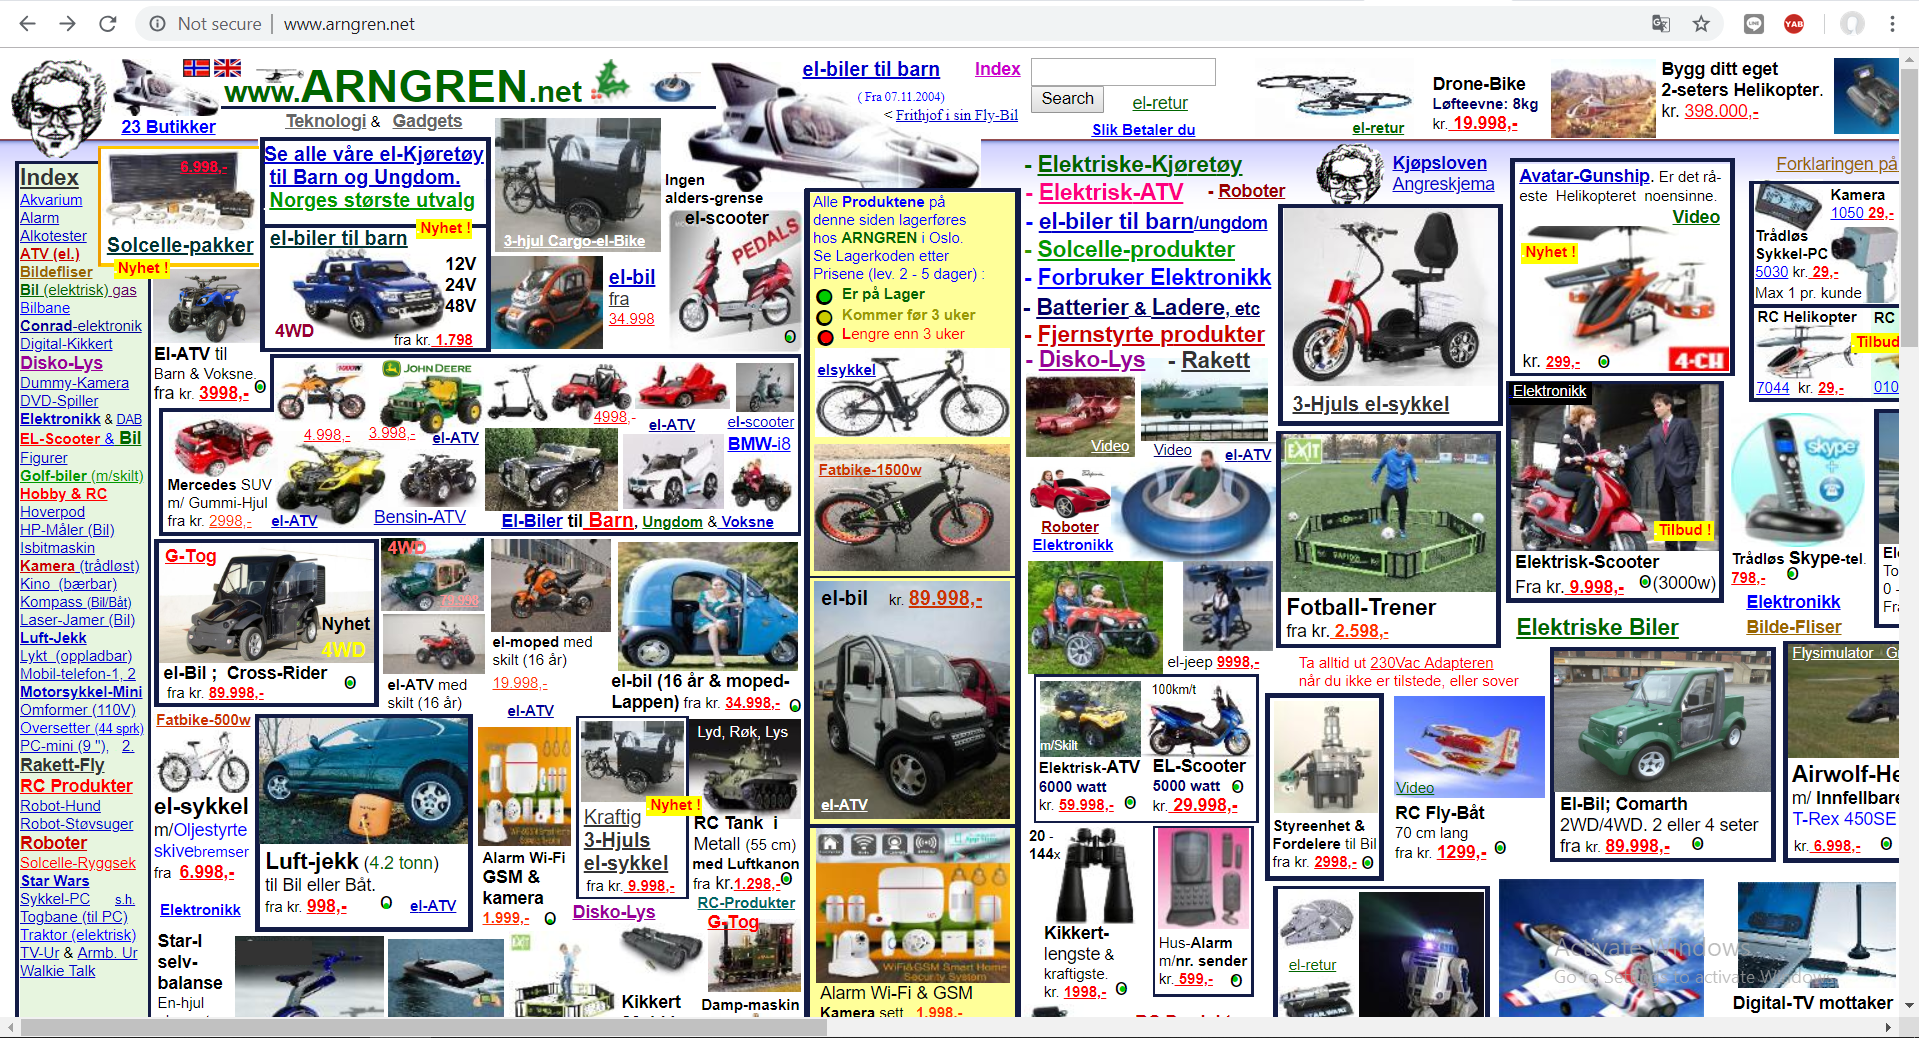
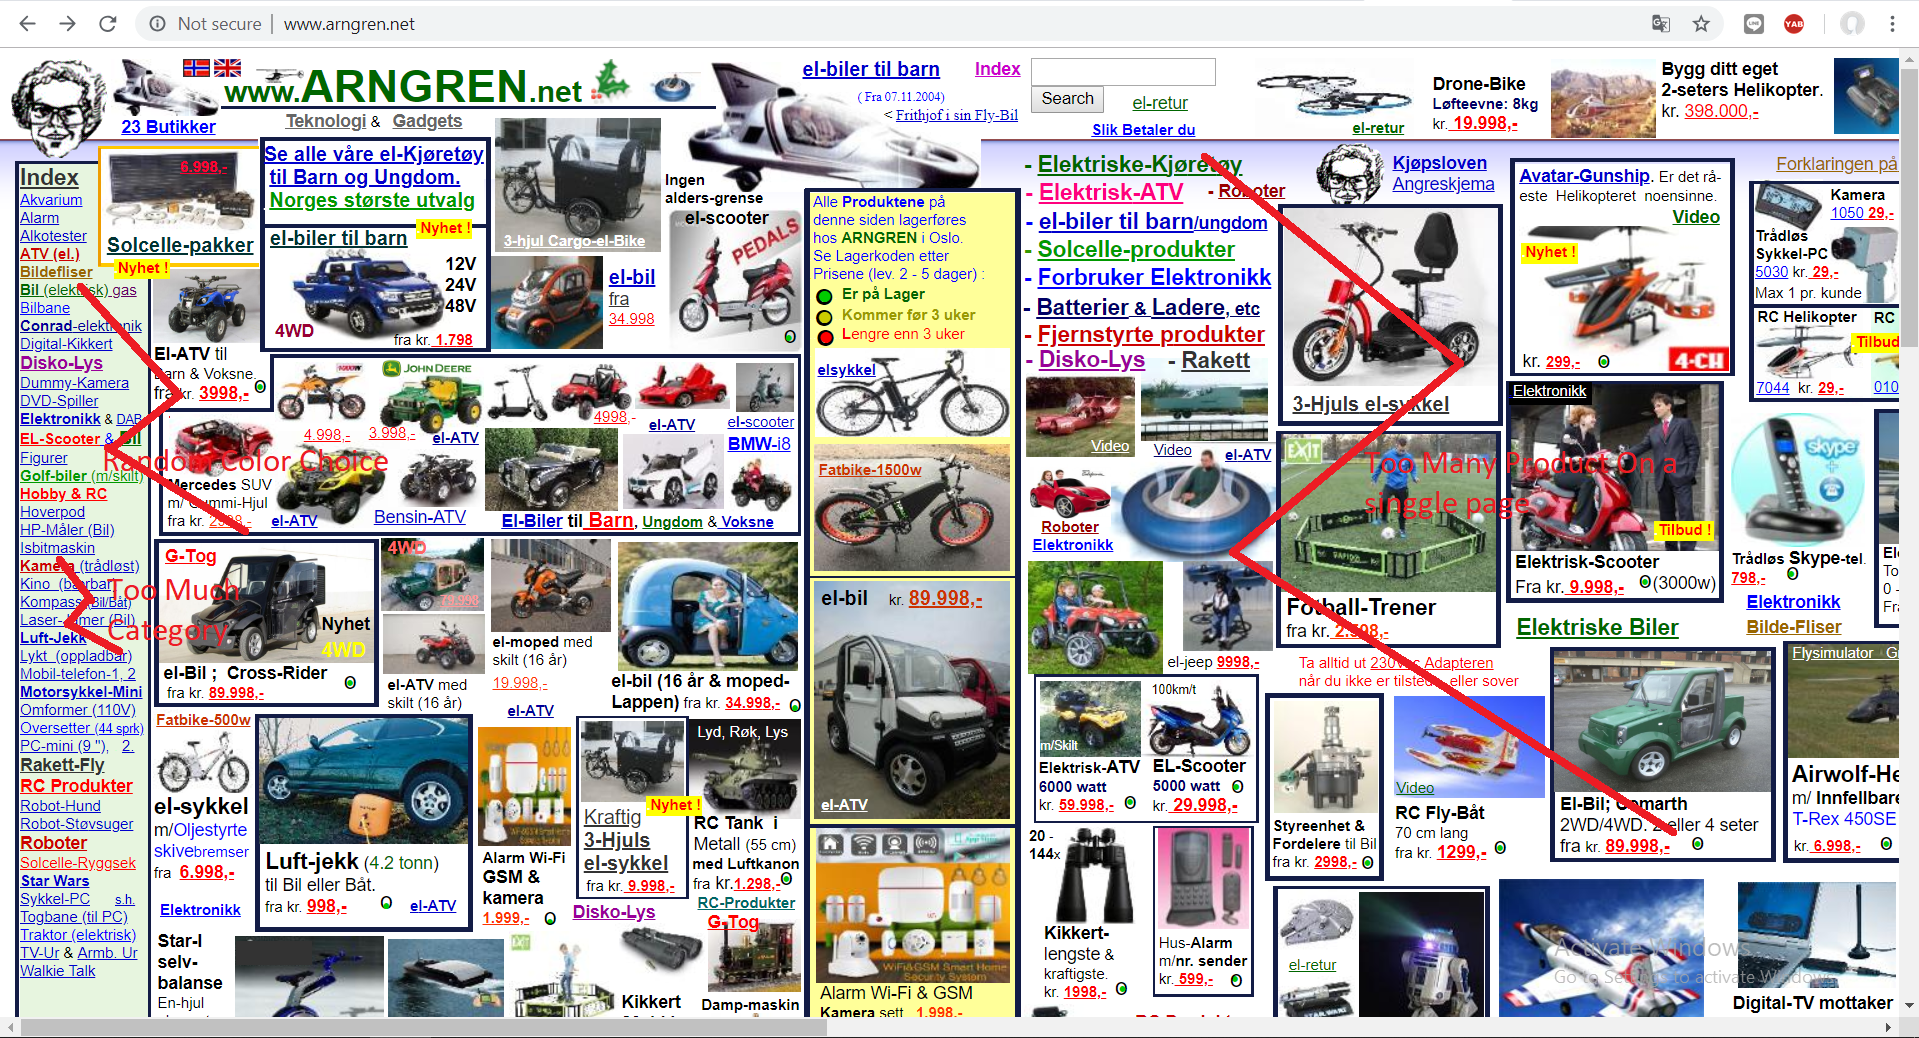
Progress

diff --git a/README.md b/README.md
@@ -1,7 +1,7 @@
 # Contextual Inquiry and Analysis
 ## Arngreen Description
 
-Arngreen is an advertisement website from large company, Arngren electronics. The products have good quality it is unfortunate that the website doesnt has good looking view.
+Arngreen is an advertisement website from large company, Arngren electronics. The products have good quality it is unfortunate that the website doesnt has good looking view. some users even need a lot of time just to finding where is the product they want to buy 
 
 <br> ![Arngreen](asset/arngren.png) <br>
 
@@ -9,13 +9,57 @@ Arngreen is an advertisement website from large company, Arngren electronics. Th
 1. Searching Product
 2. opening detail product
 3. Finding contact person
-4. Change category
+4. buying product
 5. change Language
 
 ## User Description
-Aliquam id lacus leo. Sed elementum lectus non lacus ultricies vehicula. Pellentesque et sollicitudin risus, a imperdiet metus. Vivamus augue ligula, suscipit ac cursus quis, auctor eu nunc. Lorem ipsum dolor sit amet, consectetur adipiscing elit. Nulla facilisi. Praesent rhoncus faucibus mauris. Curabitur bibendum lorem eu neque efficitur, quis luctus mauris aliquet. Praesent posuere, urna eget euismod dictum, elit est vehicula ex, volutpat ultrices augue mi in mauris. Nulla lobortis dolor quis ullamcorper volutpat. Aenean convallis eros vitae justo elementum condimentum. Aenean eros enim, lobortis non imperdiet quis, pulvinar volutpat quam.
+- Male
+- 21 Years old
+- universitas Diponegoro Students
+- Having Frist time see arngreen
+
 ## Transcript
-Interdum et malesuada fames ac ante ipsum primis in faucibus. Suspendisse auctor, nunc non gravida maximus, nisl dui lobortis mi, ut maximus ipsum arcu eu quam. Etiam euismod lacus rhoncus lectus dapibus, nec maximus lorem porttitor. Nunc finibus dictum vehicula. Maecenas feugiat turpis vitae maximus placerat. Nunc quis neque vestibulum, rhoncus libero vel, efficitur diam. Donec lobortis turpis condimentum ultrices finibus. Sed sit amet eleifend sapien, non tristique felis. Suspendisse potenti. Maecenas sodales ac dolor ac suscipit. Aenean turpis arcu, placerat et augue vel, lacinia tincidunt ante. Etiam rhoncus nisl vitae sem rhoncus ultrices. Praesent venenatis vulputate diam, iaculis fringilla nisi. Nullam a tellus eget ipsum volutpat mattis fringilla non erat. Donec tincidunt mi sed metus vulputate tristique. Nam in dolor ut ex vestibulum rhoncus in nec lectus.
+```text
+Dewang :  Halo nama mu siapa
+Arip   :  saya arip kak
+Dewang :  seberapa sering mbuka internet
+Arip   :  Setiap hari
+Dewang :  Pernah mbuka arngren belum sebelumnya
+Arip   :  nope
+Dewang :  apa pendapatmu tentang website arngreen
+Arip   :  Berantakan pol apa ini
+Dewang :  coba cari product yang mbok pengenin
+Arip   :  la gimana
+Dewang :  ada tombol search nya itu 
+arip   :  aaa.. oalah itu di atas
+Arip   :  yang mana nieh
+Arip   :  lah kok keluarnya gini
+Dewang :  di klik lagi coba
+Arip   :  yang di pencet apa
+Dewang :  itu pencet gambar nya
+Arip   :  ini ngga niat jualan apa ya , bikin bingung 
+Arip   :  kerasa kaya buka Deepweb 
+Arip   :  Ini cara beli nya gimana ngga bisa langsung ya, ini 
+Arip   :  gimana seh
+Arip   :  ini gimana seh ngga kaya shopee gitu
+Dewang :  ini website buat nampilin product aja , nanti ada 
+Dewang :  kontak person nya       
+Dewang :  dibawah buat beli secara manual
+Arip   :  kamu tau ngga kalo di website ada kategory nya
+Dewang :  la yang mana i 
+Arip   :  itu dipojok kiri
+Arip   :  loh bisa dipencet to ternyata , gangerti aku
+Arip   :  opo ki tambah ga jelas , rakmudeng wes aku
+Dewang :  tau ngga kalo ada Ganti bahasa di website ini 
+Arip   :  yang mana sih , oh gambar benedera ni mesti
+Dewang :  iya pencet coba
+Arip   :  loh kok malah keluar iklan
+Arip   :  ini apa sih gajelas c
+Arip   :  tak kasih bintang 1 di google ntar
+Dewang :  yaudah emang mbingungin kok , Makasih ya
+Arip   :  sama sama
+``` 
+
 ## Models and Annotations
 ### Artifact Model
 ![Artifact Model and Annotation](https://picsum.photos/400/300/?random)
@@ -23,5 +67,10 @@ Interdum et malesuada fames ac ante ipsum primis in faucibus. Suspendisse auctor
 ![Flow Model and Annotation](https://picsum.photos/400/300/?random)
 ### Cultural Model
 ![Cultural Model and Annotation](https://picsum.photos/400/300/?random)
-## Do's and Don't's
-Fusce lobortis massa mauris, in aliquam erat aliquet eget. Donec rhoncus venenatis mauris, at commodo odio bibendum ac. Sed consectetur enim justo, vitae maximus eros elementum non. Sed feugiat orci sem, vel faucibus sem aliquet sed. Praesent pulvinar felis eget nisl varius, id lacinia urna pretium. Sed at ornare diam, nec fringilla dolor. In ut gravida sapien, eget varius magna. Morbi lobortis ex eu eleifend finibus. Phasellus eget nulla ullamcorper, ullamcorper purus ac, luctus turpis. Sed volutpat mauris ut erat consectetur, in sagittis erat egestas.
+## Do's
+- Arrange the product location
+- Remove 3rd app advertisement from product
+- Make it arround 10 product per page only
+- simpler the category
+## Do's
+- Don't add another product detail on product description page
